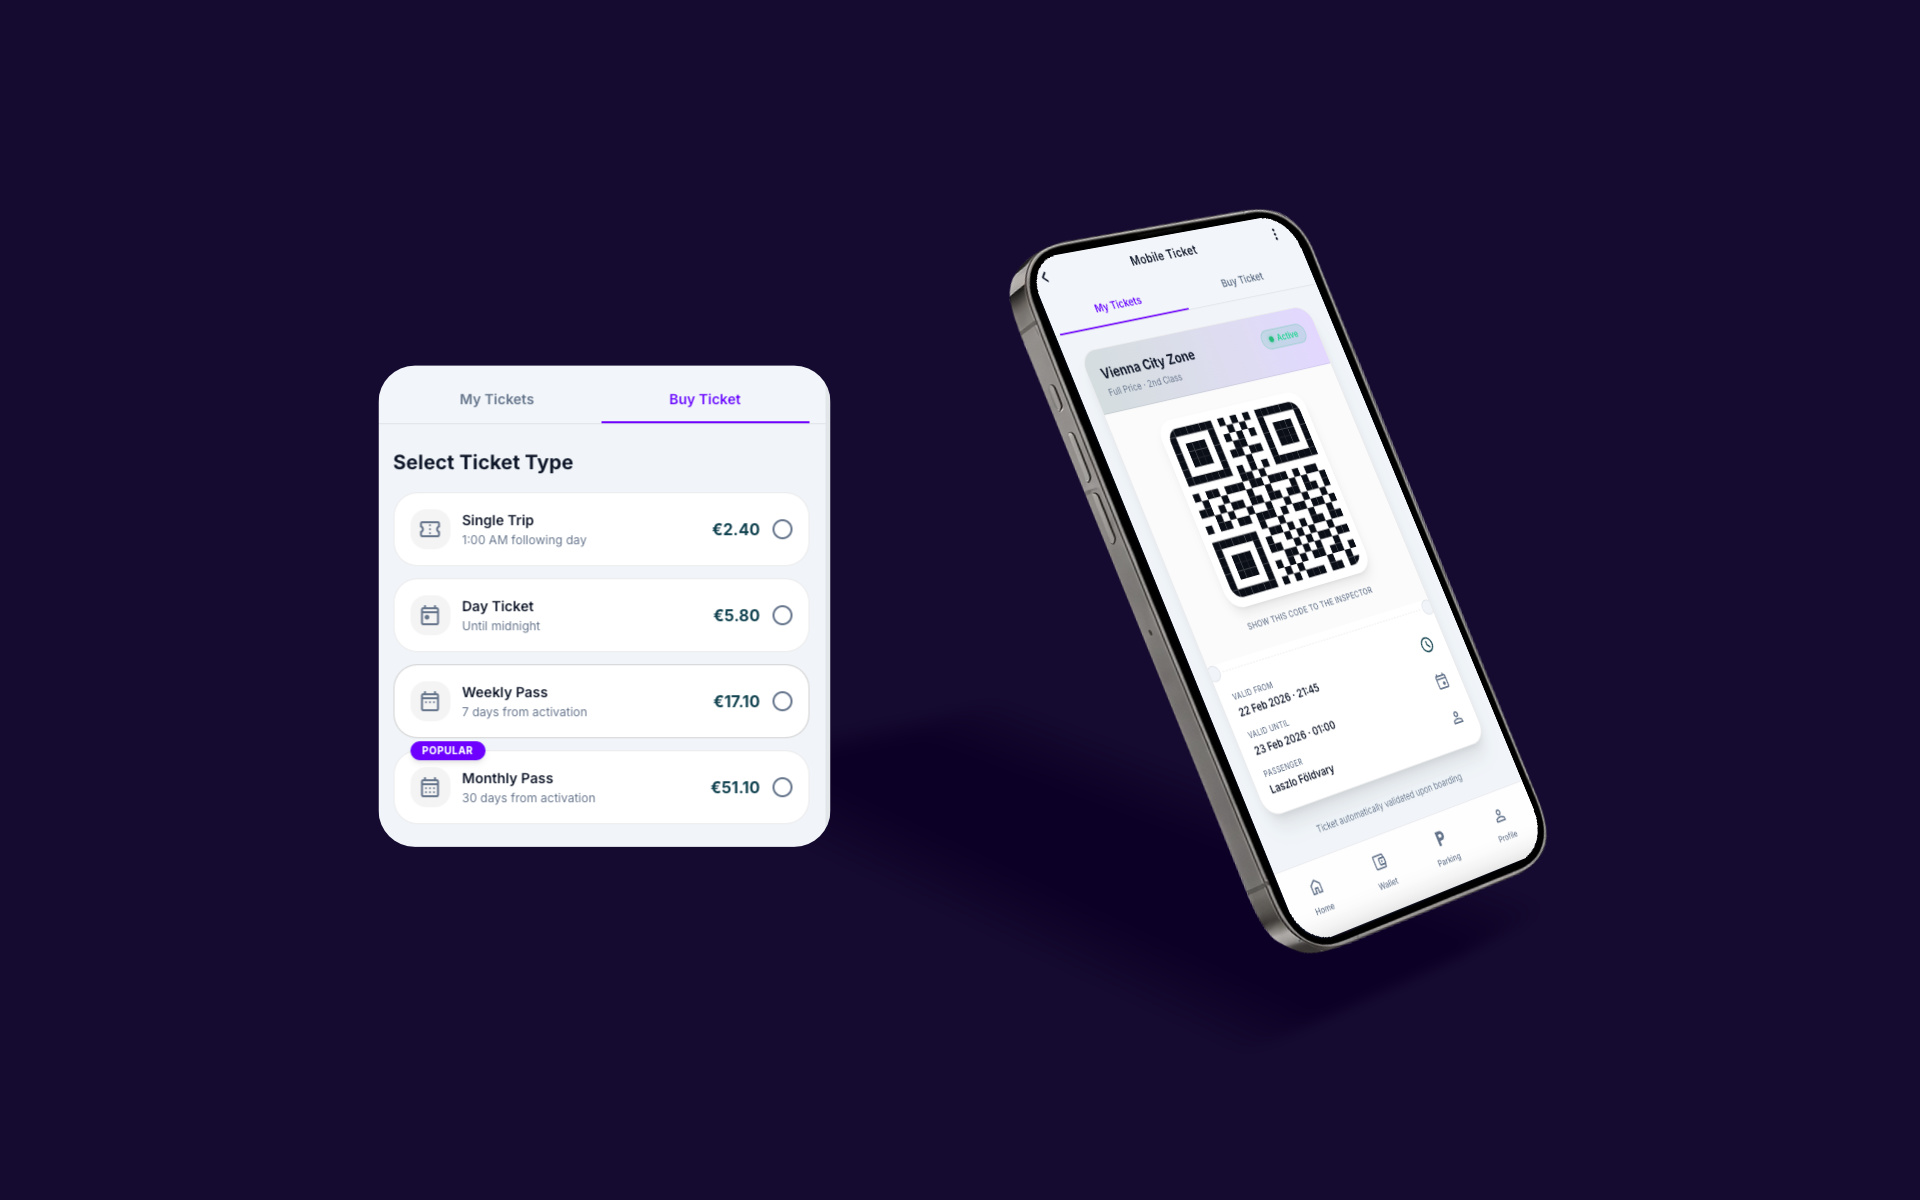
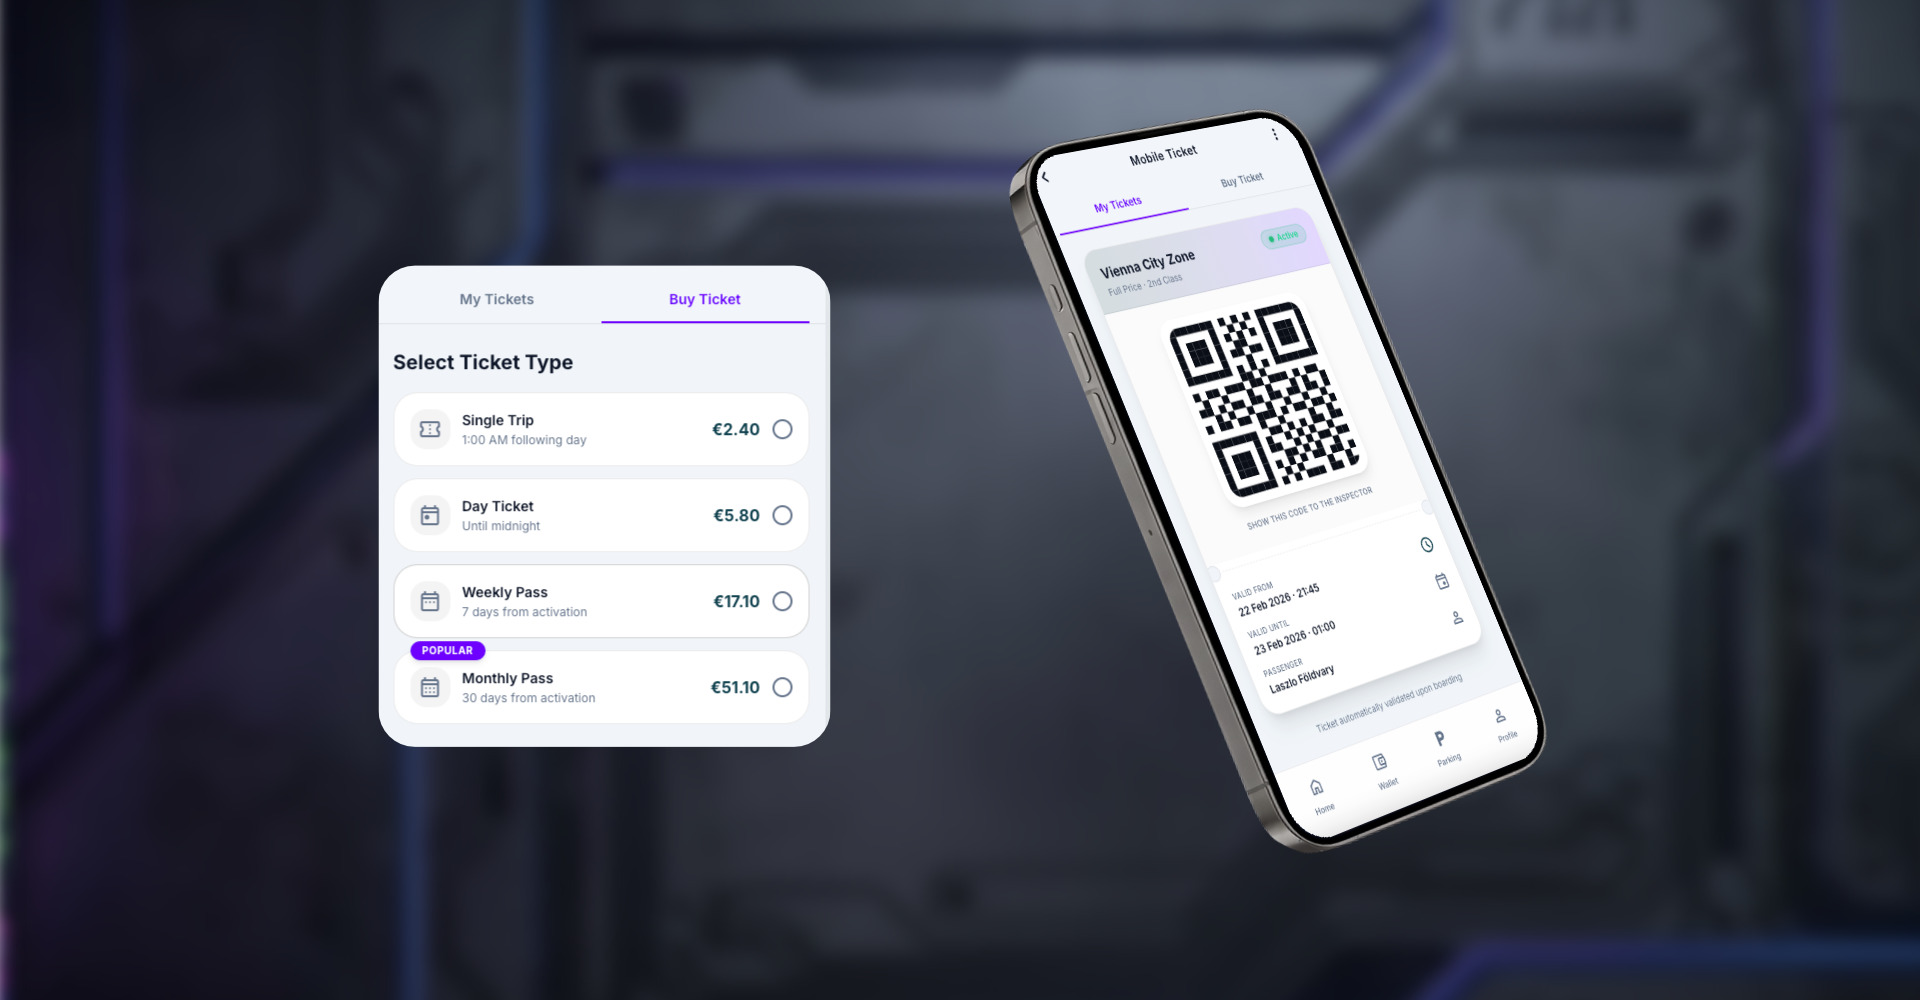
feat: implement dark mode support for eWa case study assets and images

diff --git a/case-study-ewa.html b/case-study-ewa.html
@@ -833,9 +833,9 @@
           </div>
           <!-- Right side (Phone) -->
           <div class="flex-1 relative overflow-hidden">
-            <img src="img/ewa/parking/parking-phone.jpg" alt="Parking App on Phone (Light)"
+            <img src="img/ewa/parking/parking-phone-light.jpg" alt="Parking App on Phone (Light)"
               class="dark:hidden absolute inset-0 w-full h-full object-cover object-center">
-            <img src="img/ewa/parking/parking-phone.jpg" alt="Parking App on Phone (Dark)"
+            <img src="img/ewa/parking/parking-phone-dark.jpg" alt="Parking App on Phone (Dark)"
               class="hidden dark:block absolute inset-0 w-full h-full object-cover object-center">
           </div>
         </section>
@@ -1110,9 +1110,9 @@
       <div id="panel-7" class="stack-panel bg-white dark:bg-background-dark" style="z-index: 8;">
         <section class="w-full h-screen pt-[64px] flex flex-col">
           <div class="w-full h-full relative overflow-hidden">
-            <img src="img/ewa/tickets/tickets.jpg" alt="Tickets Showcase (Light)"
+            <img src="img/ewa/tickets/tickets-light.jpg" alt="Tickets Showcase (Light)"
               class="dark:hidden absolute inset-0 w-full h-full object-cover object-center">
-            <img src="img/ewa/tickets/tickets.jpg" alt="Tickets Showcase (Dark)"
+            <img src="img/ewa/tickets/tickets-dark.jpg" alt="Tickets Showcase (Dark)"
               class="hidden dark:block absolute inset-0 w-full h-full object-cover object-center">
           </div>
         </section>
@@ -1214,8 +1214,10 @@
 
           <!-- CENTER: IMAGE -->
           <div class="flex-1 w-full flex items-center justify-center relative">
+            <img src="img/ewa/insurance/userflow_light.jpg" alt="Insurance UI Showcase"
+              class="dark:hidden w-full h-full max-w-[1150px] max-h-[520px] object-contain">
             <img src="img/ewa/insurance/userflow.png" alt="Insurance UI Showcase"
-              class="w-full h-full max-w-[1150px] max-h-[520px] object-contain">
+              class="hidden dark:block w-full h-full max-w-[1150px] max-h-[520px] object-contain">
           </div>
 
         </div>
@@ -1395,12 +1397,16 @@
             class="w-full max-w-[1000px] grid grid-cols-1 md:grid-cols-2 gap-12 lg:gap-16 items-center justify-items-center">
 
             <!-- Left Image: Login -->
-            <img src="img/ewa/login/login.png" alt="Login UI Showcase"
-              class="w-full h-auto max-h-[80vh] object-contain drop-shadow-2xl">
+            <img src="img/ewa/login/login-light.png" alt="Login UI Showcase"
+              class="dark:hidden w-full h-auto max-h-[80vh] object-contain drop-shadow-2xl">
+            <img src="img/ewa/login/login-dark.png" alt="Login UI Showcase"
+              class="hidden dark:block w-full h-auto max-h-[80vh] object-contain drop-shadow-2xl">
 
             <!-- Right Image: Wallet -->
-            <img src="img/ewa/login/wallet.png" alt="Wallet UI Showcase"
-              class="w-full h-auto max-h-[80vh] object-contain drop-shadow-2xl">
+            <img src="img/ewa/login/dashboard-light.png" alt="Wallet UI Showcase"
+              class="dark:hidden w-full h-auto max-h-[80vh] object-contain drop-shadow-2xl">
+            <img src="img/ewa/login/dashboard-dark.png" alt="Wallet UI Showcase"
+              class="hidden dark:block w-full h-auto max-h-[80vh] object-contain drop-shadow-2xl">
 
           </div>
         </div>
@@ -1771,24 +1777,29 @@
       <!-- END PANEL 3.995 -->
 
       <!-- ===== PANEL 3.996: BRAND IDENTITY ===== -->
-      <div id="panel-14" class="stack-panel relative bg-black" style="z-index: 16;">
+      <div id="panel-14" class="stack-panel relative bg-slate-50 dark:bg-black" style="z-index: 16;">
         <div class="w-full min-h-screen relative overflow-hidden flex flex-col justify-start">
 
           <!-- Background Image -->
+          <img src="./img/ewa/brand/brand-identity-light.jpg" alt="eWa Brand Identity"
+            class="dark:hidden absolute inset-0 w-full h-full object-cover object-center z-0">
           <img src="./img/ewa/brand/brand-identity-1.jpg" alt="eWa Brand Identity"
-            class="absolute inset-0 w-full h-full object-cover object-center z-0">
+            class="hidden dark:block absolute inset-0 w-full h-full object-cover object-center z-0">
 
           <!-- Content -->
           <div class="absolute top-12 lg:top-16 left-0 z-20 flex items-center"
             style="padding: 12px 64px 12px max(1.5rem, calc((100vw - 1200px) / 2 + 1.5rem)); margin-top: 80px;">
 
             <!-- Slanted Background -->
-            <div class="absolute top-0 bottom-0"
+            <div class="absolute top-0 bottom-0 dark:hidden"
+              style="left: -50px; right: 16px; background-color: rgba(255, 255, 255, 0.7); backdrop-filter: blur(6px); -webkit-backdrop-filter: blur(6px); border: 1px solid rgba(0,0,0,0.1); transform: skewX(18deg); transform-origin: bottom right; z-index: -1;">
+            </div>
+            <div class="absolute top-0 bottom-0 hidden dark:block"
               style="left: -50px; right: 16px; background-color: rgba(7, 11, 20, 0.7); backdrop-filter: blur(6px); -webkit-backdrop-filter: blur(6px); border: 1px solid rgba(255,255,255,0.2); transform: skewX(18deg); transform-origin: bottom right; z-index: -1;">
             </div>
 
             <!-- Text -->
-            <h2 class="text-xl md:text-2xl text-white font-bold whitespace-nowrap drop-shadow-md tracking-wide">
+            <h2 class="text-xl md:text-2xl text-slate-800 dark:text-white font-bold whitespace-nowrap drop-shadow-md tracking-wide">
               / Brand Identity
             </h2>
 
